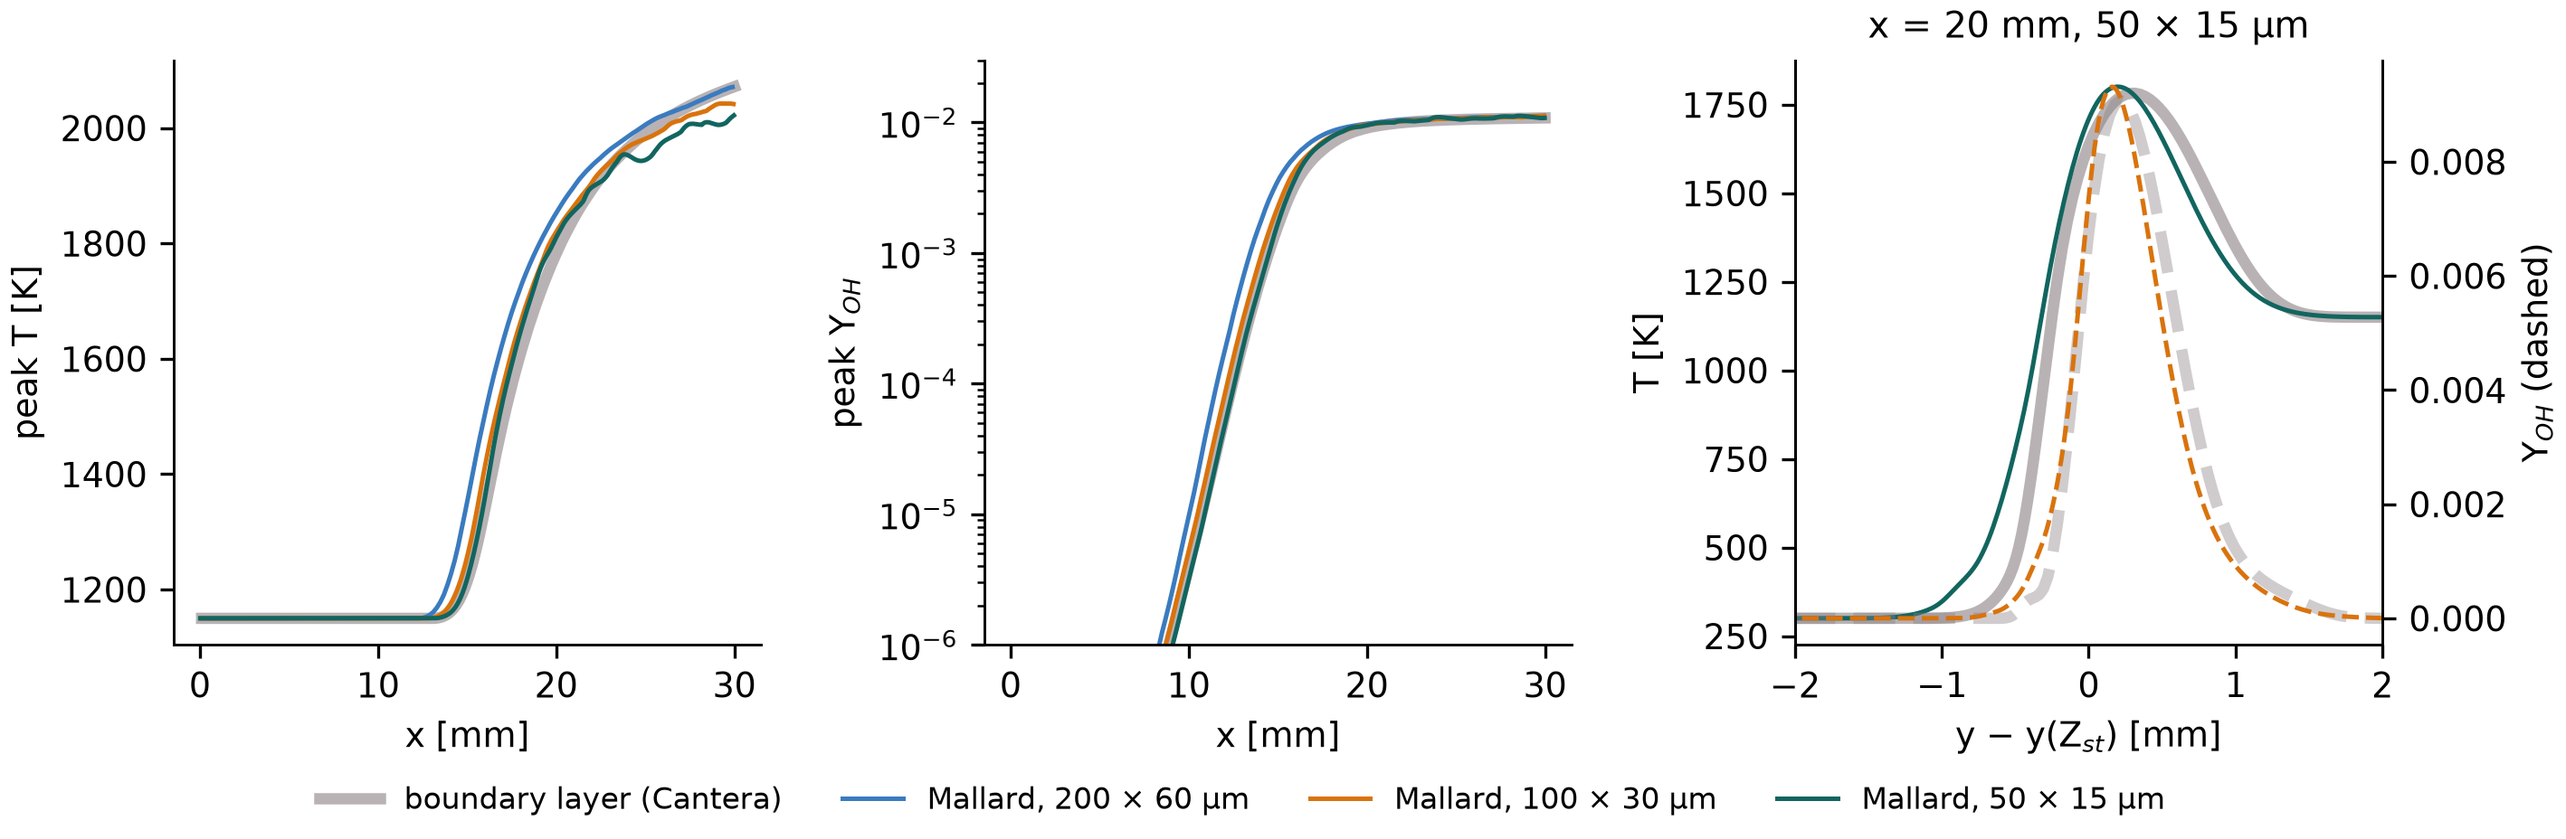
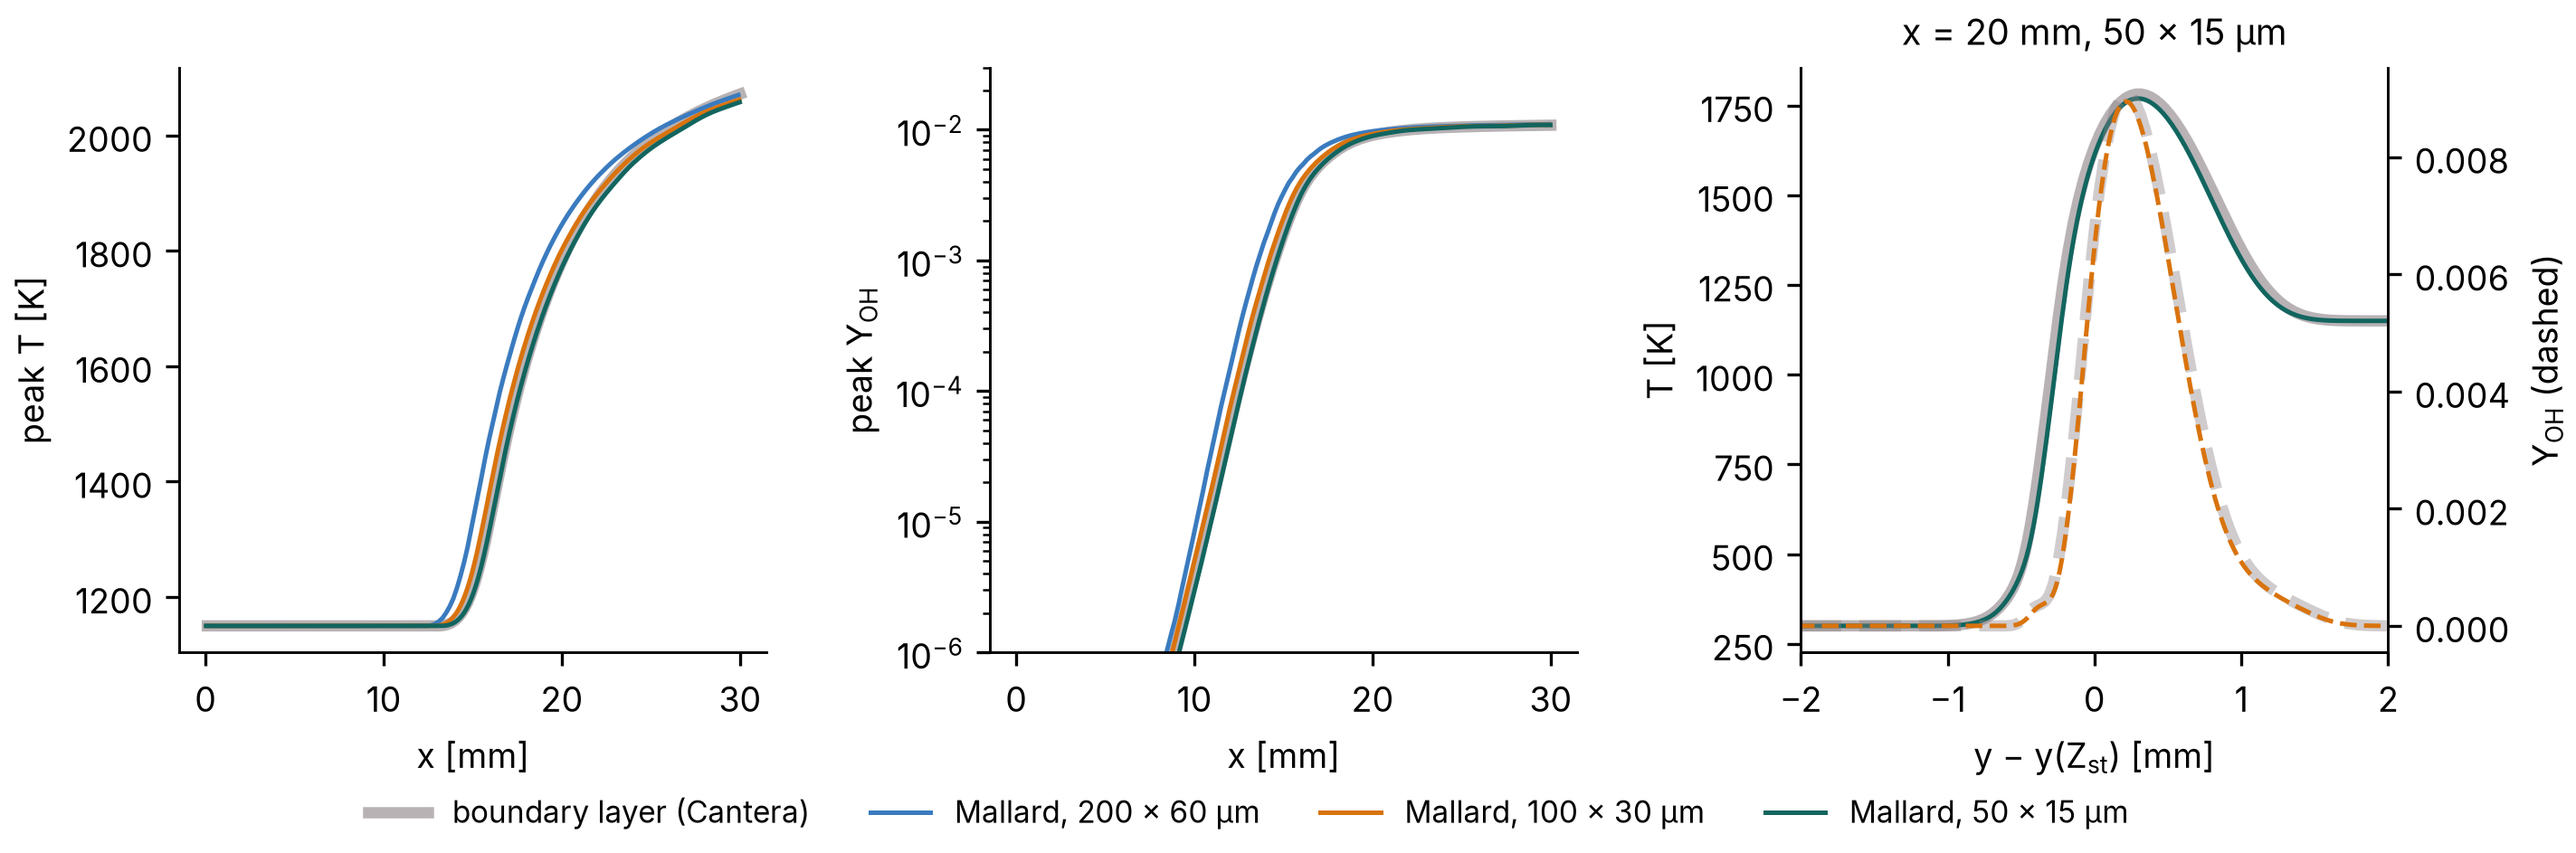
Validation: steady reacting mixing layer with characteristic outlets (Mallard #1180, #75)
Setup, provenance, summary row, table and closing paragraph from #1180;
the figure redrawn from its results/*.csv, without the outlet buffer.

diff --git a/validation/mixing_layer.py b/validation/mixing_layer.py
@@ -1,4 +1,4 @@
-"""Laminar reacting mixing layer (V11, Mallard 0.10.0) against the boundary-layer reference.
+"""Laminar reacting mixing layer (V11, Mallard after 0.10.0, #1180) against the boundary-layer reference.
 
     MALLARD_SRC=~/mallard python mixing_layer.py
 
@@ -27,6 +27,7 @@ FIG.mkdir(exist_ok=True)
 TEAL, FLAME, GREY, BLUE = "#12655f", "#d9730d", "#8a8085", "#3a7bbf"
 RUNS = {"coarse": ("200 × 60 µm", BLUE), "base": ("100 × 30 µm", FLAME), "fine": ("50 × 15 µm", TEAL)}
 STATION = 0.02
+LENGTH = 0.03  # the domain; the outlet buffer beyond it is not compared
 
 for _f in (Path(__file__).resolve().parent / "fonts").glob("Inter-*.ttf"):
     font_manager.fontManager.addfont(str(_f))
@@ -51,6 +52,7 @@ def main():
     b.semilogy(ign["x"] * 1e3, ign["Y_OH_max"], color=GREY, lw=3.0, alpha=0.6)
     for name, (label, color) in RUNS.items():
         p = read(CASE / "results" / f"{name}.csv")
+        p = p[p["x"] <= LENGTH + 1e-9]  # not the outlet buffer
         a.plot(p["x"] * 1e3, p["T_max"], color=color, label=f"Mallard, {label}")
         b.semilogy(p["x"] * 1e3, p["Y_OH_max"], color=color)
     a.set_xlabel("x [mm]")

diff --git a/content/validation.md b/content/validation.md
@@ -45,7 +45,7 @@ Each result on this page comes from a Mallard run compared with an exact solutio
 | [Cellular detonation](#cellular-detonation) (reacting, 2D) | front speed | 1617.0 m/s | D<sub>CJ</sub> 1616.9 m/s | <span class="mallard-nowrap">dev. 0.3.0–0.4.0</span> |
 | [Cellular detonation in 3D](#cellular-detonation-3d) (reacting) | front speed over 17 cm | 1620.6 m/s | D<sub>CJ</sub> 1617 m/s | <span class="mallard-nowrap">dev. 0.5.0–0.6.0</span> |
 | [Stratified autoignition](#autoignition) (reacting, 2D) | heat release peak time, T′ = 3.75 / 7.5 / 15 / 30 K | 0.993 / 0.986 / 0.952 / 0.822 τ<sub>0</sub> | trend of Chen et al., Hawkes et al. (2006) (qualitative) | <span class="mallard-nowrap">dev. 0.5.0–0.6.0</span> |
-| [Laminar reacting mixing layer](#reacting-mixing-layer) (reacting, 2D) | lift-off length, 200 × 60 / 100 × 30 / 50 × 15 µm cells | −6.9 / −2.6 / −0.5% | steady boundary-layer equations (Cantera): 15.26 mm | <span class="mallard-nowrap">7aded73 (after 0.10.0)</span> |
+| [Laminar reacting mixing layer](#reacting-mixing-layer) (reacting, 2D) | lift-off length, 200 × 60 / 100 × 30 / 50 × 15 µm cells | −6.1 / −2.2 / +0.6% | steady boundary-layer equations (Cantera): 15.26 mm | <span class="mallard-nowrap">d57440e (after 0.10.0)</span> |
 | [LES, channel flow, Re<sub>τ</sub> = 395 / 590](#les-channel) (3D) | Re<sub>τ</sub>, Sigma with Scotti's width (64³ / 96³) | +0.7% / +1.6% | 392.2 / 587.2 (Moser, Kim & Mansour 1999) | <span class="mallard-nowrap">dev. ~0.6.0–0.7.0</span> |
 | [Wall-modeled LES, channels](#les-wall-model) (3D) | C<sub>f</sub>, Re<sub>τ</sub> = 1995 / 5186, 12 cells per half-height, GFM; B<sub>q</sub>, T<sub>c</sub>/T<sub>w</sub>, M<sub>b</sub> = 1.7 / 3.0 | +2.1 / +1.5%; +1.3 / +0.5%, +0.2 / +0.7% | Lee & Moser (2015); Trettel & Larsson (2016) | <span class="mallard-nowrap">7646ddb (after 0.8.0)</span> |
 | [LES, thickened flame](#les-tfles) (reacting) | consumption speed at F = 7.9 / 31.6 | −0.2% / −0.2% | Cantera s<sub>L</sub> = 2.3324 m/s | <span class="mallard-nowrap">dev. 0.6.0–0.7.0</span> |
@@ -897,29 +897,29 @@ As the papers describe, larger fluctuations ignite earlier and burn longer, and 
 
 #### Laminar reacting mixing layer {#reacting-mixing-layer}
 
-Development code after 0.10.0 (version string 0.10.0): the solver of [`7aded73`](https://github.com/MatthewBonanni/mallard/commit/7aded73) with the scripts of [#476](https://github.com/MatthewBonanni/mallard/pull/476)
+Development code after 0.10.0 (version string 0.10.0): the solver of [`d57440e`](https://github.com/MatthewBonanni/mallard/commit/d57440e) with the scripts of [#1180](https://github.com/MatthewBonanni/mallard/pull/1180)
 { .mallard-provenance }
 
 A spatially developing planar mixing layer, V11 of the [design notes](docs/design/chemistry.md), in the [`reacting_mixing_layer`](docs/examples.md#reacting-mixing-layer) example. H<sub>2</sub>/N<sub>2</sub> (1:1 by volume) at 300 K and 50 m/s meets air at 1150 K and 100 m/s, both at 1 atm, at the trailing edge of a splitter plate of zero thickness. The hot air autoignites the mixture forming in the layer some 15 mm downstream, and a lifted diffusion flame trails behind, held by autoignition rather than by propagation.
 
 - **Reference:** the steady boundary-layer equations with the same mechanism (`h2o2.yaml`) and Cantera's mixture-averaged transport, marched in x from the plate in von Mises form on a similarity grid of 401 points across the layer (its lift-off length moves by 0.005 mm from 401 to 801 points).
-- **Mallard run:** 30 mm downstream of the plate, two `inlet_state` halves at x = 0 and `outlet_pressure` elsewhere, started from the reference and run for two flow-throughs of the slower stream (1.2 ms). Mixture-averaged transport, MUSCL, HLLC, SSPRK3 at CFL 0.8.
+- **Mallard run:** 30 mm downstream of the plate, two `inlet_state` halves at x = 0 and characteristic (`nscbc`) `outlet_pressure` conditions on the outlet, bottom and top, behind a 10 mm buffer of cells growing by 10% per cell before the outlet; started from the reference and run for two flow-throughs of the slower stream (1.2 ms). Mixture-averaged transport, MUSCL, HLLC, SSPRK3 at CFL 0.8. With reflecting boundaries, the start-up sound kept re-seeding Kelvin–Helmholtz roll-up of this convectively unstable layer at 20–30 mm, and on the finest mesh waves reaching an outlet without a buffer made sound that returned to the plate; with characteristic outlets and the buffer the layer is steady.
 - **Meshes:** quadrilaterals of 200 × 60, 100 × 30 and 50 × 15 µm (along x × across the layer), growing by 8% per cell outside it.
-- **Measures:** the lift-off length x<sub>OH</sub>, where the peak Y<sub>OH</sub> across the layer first reaches 2 × 10<sup>−3</sup>, from the per-snapshot peaks averaged over the last 0.4 ms.
+- **Measures:** the lift-off length x<sub>OH</sub>, where the peak Y<sub>OH</sub> across the layer first reaches 2 × 10<sup>−3</sup>, and x<sub>T</sub>, where the peak temperature first exceeds the air's by 250 K, from the per-snapshot peaks averaged over the last 0.4 ms.
 
 <figure class="mallard-figure" markdown>
-![Peak temperature and OH mass fraction along the mixing layer on three meshes against the boundary-layer reference, and temperature and OH across the layer at 20 mm](validation/mixing_layer.png){ loading=lazy width=2836 height=928 }
+![Peak temperature and OH mass fraction along the mixing layer on three meshes against the boundary-layer reference, and temperature and OH across the layer at 20 mm](validation/mixing_layer.png){ loading=lazy width=2847 height=943 }
 <figcaption>Left and middle: peak temperature and Y<sub>OH</sub> across the layer, along x. Right: temperature (solid) and Y<sub>OH</sub> (dashed) across the layer at x = 20 mm on the finest mesh, aligned at the stoichiometric mixture fraction.</figcaption>
 </figure>
 
 | Cells | Count | Cost on one A100 | x<sub>OH</sub> | error | peak T at 20 / 30 mm |
 |---|---:|---:|---:|---:|---:|
 | reference | | | 15.26 mm | | 1782 / 2072 K |
-| 200 × 60 µm | 20,700 | 2.3 min | 14.20 mm | −6.9% | 1848 / 2071 K |
-| 100 × 30 µm | 69,300 | 10 min | 14.86 mm | −2.6% | 1822 / 2042 K |
-| 50 × 15 µm | 246,600 | 87 min | 15.18 mm | −0.5% | 1809 / 2022 K |
+| 200 × 60 µm | 23,352 | 2.3 min | 14.33 mm | −6.1% | 1841 / 2070 K |
+| 100 × 30 µm | 75,168 | 12 min | 14.93 mm | −2.2% | 1805 / 2062 K |
+| 50 × 15 µm | 260,603 | 89 min | 15.36 mm | +0.6% | 1770 / 2058 K |
 
-The lift-off length converges to the reference's at close to second order, mostly through the refinement across the layer. Before ignition the peak Y<sub>OH</sub> grows exponentially along x as in the reference. Downstream of the flame base the layer is not steady: Kelvin–Helmholtz waves of a few m/s wrinkle the flame beyond about 18 mm and grow under refinement, so the time-averaged peak temperature at 25–30 mm falls about 50 K (2.4%) below the steady reference on the finest mesh. A quieter setup is tracked in [#1051](https://github.com/MatthewBonanni/mallard/issues/1051).
+The lift-off length converges to the reference's, to within 0.6% (x<sub>OH</sub>) and 0.5% (x<sub>T</sub>) on the finest mesh. The layer stays steady downstream of the flame base, and its profiles across the layer overlay the reference's: on the finest mesh the peak temperature at 25 and 30 mm is 13–14 K below the reference.
 
 ### Large-eddy simulation {#les}
 
